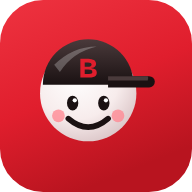
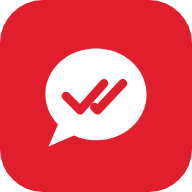
Troca a marca do site e do app para a opção 18 (balão com dois tiques)
Claude-Session: https://claude.ai/code/session_019pqwoSMJ198BP73rKNJgQj

diff --git a/painel.html b/painel.html
@@ -6,7 +6,7 @@
 <meta name="robots" content="noindex, nofollow">
 <title>Painel da loja — BoraLanchar!</title>
 <meta name="theme-color" content="#E01E2D">
-<link rel="icon" href="assets/brand/borinha-icone.svg" type="image/svg+xml">
+<link rel="icon" href="assets/brand/confirmado-icone.svg" type="image/svg+xml">
 <link rel="preconnect" href="https://fonts.googleapis.com">
 <link rel="preconnect" href="https://fonts.gstatic.com" crossorigin>
 <link rel="preload" as="style" href="https://fonts.googleapis.com/css2?family=Bricolage+Grotesque:opsz,wght@12..96,600;12..96,700;12..96,800&family=Figtree:wght@400;500;600;700&display=swap" onload="this.onload=null;this.rel='stylesheet'">
@@ -34,7 +34,7 @@
 <!-- ===== LOGIN ===== -->
 <section id="v-login" class="adm-login" hidden>
   <div class="adm-login-card">
-    <a class="brand" href="painel.html" aria-label="Voltar ao início do painel"><img class="wordmark" src="assets/brand/borinha-logo.svg" width="197" height="40" alt="BoraLanchar!"></a>
+    <a class="brand" href="painel.html" aria-label="Voltar ao início do painel"><img class="wordmark" src="assets/brand/confirmado-logo.svg" width="193" height="34" alt="BoraLanchar!"></a>
     <div><h1>Painel da sua loja</h1><p class="adm-muted">Entre com o e-mail e a senha que você criou no cadastro.</p></div>
     <form class="form" id="login-form" novalidate>
       <div class="field"><label for="l-email">E-mail</label><input id="l-email" type="email" autocomplete="email" required></div>
@@ -49,7 +49,7 @@
 <!-- ===== NOVA SENHA (link do e-mail) ===== -->
 <section id="v-pass" class="adm-login" hidden>
   <div class="adm-login-card">
-    <a class="brand" href="painel.html" aria-label="Voltar ao início do painel"><img class="wordmark" src="assets/brand/borinha-logo.svg" width="197" height="40" alt="BoraLanchar!"></a>
+    <a class="brand" href="painel.html" aria-label="Voltar ao início do painel"><img class="wordmark" src="assets/brand/confirmado-logo.svg" width="193" height="34" alt="BoraLanchar!"></a>
     <div><h1>Crie uma nova senha</h1><p class="adm-muted">Use pelo menos 8 caracteres.</p></div>
     <form class="form" id="pass-form" novalidate>
       <div class="field"><label for="p1">Nova senha</label><input id="p1" type="password" autocomplete="new-password" minlength="8" required></div>
@@ -62,7 +62,7 @@
 <!-- ===== MENSAGEM ===== -->
 <section id="v-msg" class="adm-login" hidden>
   <div class="adm-login-card">
-    <a class="brand" href="painel.html" aria-label="Voltar ao início do painel"><img class="wordmark" src="assets/brand/borinha-logo.svg" width="197" height="40" alt="BoraLanchar!"></a>
+    <a class="brand" href="painel.html" aria-label="Voltar ao início do painel"><img class="wordmark" src="assets/brand/confirmado-logo.svg" width="193" height="34" alt="BoraLanchar!"></a>
     <h1 id="msg-title"></h1>
     <p class="adm-muted" id="msg-text"></p>
     <div id="msg-actions" style="display:flex;flex-direction:column;gap:10px"></div>
@@ -77,7 +77,7 @@
   </div>
   <div class="trial-bar" id="trial-bar" hidden></div>
   <header class="adm-top">
-    <a class="brand" href="painel.html" aria-label="Voltar ao início do painel"><img class="wordmark" src="assets/brand/borinha-logo.svg" width="197" height="40" alt="BoraLanchar!"></a>
+    <a class="brand" href="painel.html" aria-label="Voltar ao início do painel"><img class="wordmark" src="assets/brand/confirmado-logo.svg" width="193" height="34" alt="BoraLanchar!"></a>
     <span class="adm-tag" id="store-name-tag">Minha loja</span>
     <div class="adm-top-right">
       <label class="open-switch" title="Abrir ou fechar a loja para pedidos">

diff --git a/admin.html b/admin.html
@@ -5,7 +5,7 @@
 <meta name="viewport" content="width=device-width, initial-scale=1">
 <meta name="robots" content="noindex, nofollow">
 <title>Painel admin — BoraLanchar!</title>
-<link rel="icon" href="assets/brand/borinha-icone.svg" type="image/svg+xml">
+<link rel="icon" href="assets/brand/confirmado-icone.svg" type="image/svg+xml">
 <link rel="preconnect" href="https://fonts.googleapis.com">
 <link rel="preconnect" href="https://fonts.gstatic.com" crossorigin>
 <link rel="preload" as="style" href="https://fonts.googleapis.com/css2?family=Bricolage+Grotesque:opsz,wght@12..96,600;12..96,700;12..96,800&family=Figtree:wght@400;500;600;700&display=swap" onload="this.onload=null;this.rel='stylesheet'">
@@ -19,7 +19,7 @@
 <!-- ===== LOGIN ===== -->
 <section id="view-login" class="adm-login" hidden>
   <div class="adm-login-card">
-    <a class="brand" href="admin.html" aria-label="Voltar ao início do admin"><img class="wordmark" src="assets/brand/borinha-logo.svg" width="197" height="40" alt="BoraLanchar!"></a>
+    <a class="brand" href="admin.html" aria-label="Voltar ao início do admin"><img class="wordmark" src="assets/brand/confirmado-logo.svg" width="193" height="34" alt="BoraLanchar!"></a>
     <div>
       <h1>Área administrativa</h1>
       <p class="adm-muted">Entre com a conta de administrador.</p>
@@ -38,7 +38,7 @@
 <!-- ===== DEFINIR SENHA (convite / redefinição) ===== -->
 <section id="view-password" class="adm-login" hidden>
   <div class="adm-login-card">
-    <a class="brand" href="admin.html" aria-label="Voltar ao início do admin"><img class="wordmark" src="assets/brand/borinha-logo.svg" width="197" height="40" alt="BoraLanchar!"></a>
+    <a class="brand" href="admin.html" aria-label="Voltar ao início do admin"><img class="wordmark" src="assets/brand/confirmado-logo.svg" width="193" height="34" alt="BoraLanchar!"></a>
     <div>
       <h1>Defina sua senha</h1>
       <p class="adm-muted">Use pelo menos 8 caracteres.</p>
@@ -55,7 +55,7 @@
 <!-- ===== SEM PERMISSÃO / CONFIG ===== -->
 <section id="view-message" class="adm-login" hidden>
   <div class="adm-login-card">
-    <a class="brand" href="admin.html" aria-label="Voltar ao início do admin"><img class="wordmark" src="assets/brand/borinha-logo.svg" width="197" height="40" alt="BoraLanchar!"></a>
+    <a class="brand" href="admin.html" aria-label="Voltar ao início do admin"><img class="wordmark" src="assets/brand/confirmado-logo.svg" width="193" height="34" alt="BoraLanchar!"></a>
     <h1 id="msg-title"></h1>
     <p class="adm-muted" id="msg-text"></p>
     <button class="btn btn-outline btn-block" id="msg-btn" type="button">Sair</button>
@@ -65,7 +65,7 @@
 <!-- ===== PAINEL ===== -->
 <div id="view-app" class="adm-app" hidden>
   <header class="adm-top">
-    <a class="brand" href="admin.html" aria-label="Voltar ao início do admin"><img class="wordmark" src="assets/brand/borinha-logo.svg" width="197" height="40" alt="BoraLanchar!"></a>
+    <a class="brand" href="admin.html" aria-label="Voltar ao início do admin"><img class="wordmark" src="assets/brand/confirmado-logo.svg" width="193" height="34" alt="BoraLanchar!"></a>
     <span class="adm-tag">Admin</span>
     <div class="adm-top-right">
       <span class="adm-user" id="who"></span>

diff --git a/index.html b/index.html
@@ -9,7 +9,7 @@
 <meta property="og:title" content="BoraLanchar! — Seu cardápio vende. E você cozinha!">
 <meta property="og:description" content="Pedidos, cardápio digital e gestão para restaurantes e delivery.">
 <meta property="og:type" content="website">
-<link rel="icon" href="assets/brand/borinha-icone.svg" type="image/svg+xml">
+<link rel="icon" href="assets/brand/confirmado-icone.svg" type="image/svg+xml">
 <link rel="apple-touch-icon" href="assets/app/apple-touch-icon.png">
 <link rel="preconnect" href="https://fonts.googleapis.com">
 <link rel="preconnect" href="https://fonts.gstatic.com" crossorigin>
@@ -55,7 +55,7 @@
 <header class="header">
   <div class="container nav">
     <a class="brand" href="#topo" aria-label="BoraLanchar! — início">
-      <img class="wordmark" src="assets/brand/borinha-logo.svg" width="197" height="40" alt="BoraLanchar!">
+      <img class="wordmark" src="assets/brand/confirmado-logo.svg" width="193" height="34" alt="BoraLanchar!">
     </a>
     <nav class="nav-links" aria-label="Principal">
       <a href="#produto">Produto</a>
@@ -125,7 +125,7 @@
         <p>2× Bacon Brasa · 1× Batata frita</p>
         <div class="acts"><span>Aceitar</span><span>Detalhes</span></div>
       </div>
-      <img class="hero-sticker" src="assets/brand/borinha-mascote-contorno.svg" alt="" aria-hidden="true" width="190" height="190">
+      <img class="hero-sticker" src="assets/brand/confirmado-simbolo.svg" alt="" aria-hidden="true" width="156" height="152">
       <div class="float float-pay" aria-hidden="true">
         <i><svg width="18" height="18" style="color:#fff"><use href="#i-check"/></svg></i>
         <span><small>Pagamento aprovado</small><b>Pix confirmado</b></span>
@@ -382,7 +382,7 @@
 <section class="section" style="padding:96px 0">
   <div class="container">
     <div class="cta-box reveal">
-      <img class="cta-seal" loading="lazy" decoding="async" src="assets/brand/borinha-mascote.svg" alt="" aria-hidden="true" width="190" height="190">
+      <img class="cta-seal" loading="lazy" decoding="async" src="assets/brand/confirmado-simbolo-branco.svg" alt="" aria-hidden="true" width="156" height="152">
       <div style="flex:1 1 480px;min-width:0">
         <span class="cta-kicker">Bateu a fome? Bora lanchar!</span>
         <h2>Seu próximo pedido pode chegar ainda hoje.</h2>
@@ -401,7 +401,7 @@
   <div class="container">
     <div class="footer-top">
       <div class="footer-brand">
-        <a class="brand" href="#topo"><img class="wordmark" loading="lazy" decoding="async" src="assets/brand/borinha-logo-branco.svg" width="217" height="44" alt="BoraLanchar!"></a>
+        <a class="brand" href="#topo"><img class="wordmark" loading="lazy" decoding="async" src="assets/brand/confirmado-logo-branco.svg" width="216" height="38" alt="BoraLanchar!"></a>
         <p style="font-size:15px">Pedidos, cardápio digital e gestão para restaurantes que querem crescer sem perder o controle.</p>
         <div class="socials">
           <a href="#" aria-label="Instagram"><svg width="20" height="20"><use href="#i-ig"/></svg></a>

diff --git a/assets/styles.css b/assets/styles.css
@@ -326,8 +326,8 @@ dialog.wide{width:min(960px,calc(100% - 32px))}
 }
 
 /* logotipo e foco em fundos escuros */
-.brand .wordmark{display:block;height:40px;width:auto}
-.footer .brand .wordmark{height:44px}
+.brand .wordmark{display:block;height:34px;width:auto}
+.footer .brand .wordmark{height:38px}
 .footer,.section-dark,.plan.featured,.band-red,.cta-box,.marquee{--focus:#FFFFFF}
 
 /* Planos reativos: o cartão ativo assume a cor do seu plano.
@@ -389,7 +389,7 @@ dialog.wide{width:min(960px,calc(100% - 32px))}
 .hero::before{right:-260px;top:-240px;width:900px;height:900px;background:repeating-conic-gradient(var(--red-soft) 0 7.5deg,#fff 7.5deg 15deg);-webkit-mask-image:radial-gradient(closest-side,#000 55%,transparent);mask-image:radial-gradient(closest-side,#000 55%,transparent)}
 .pill{border:2px solid var(--ink);color:var(--ink);font-weight:700;box-shadow:3px 3px 0 var(--ink)}
 .hero h1 em{color:var(--red)}
-.hero-sticker{position:absolute;left:4px;bottom:10px;width:170px;height:auto;z-index:3;transform:rotate(-8deg);filter:drop-shadow(0 6px 10px rgba(26,17,18,.35))}
+.hero-sticker{position:absolute;left:8px;bottom:18px;width:150px;height:auto;z-index:3;transform:rotate(-8deg);filter:drop-shadow(0 8px 14px rgba(160,16,27,.35))}
 @media (max-width:640px){.hero-sticker{width:128px;left:-4px;bottom:4px}}
 
 /* botões com sombra de adesivo */
@@ -422,7 +422,7 @@ dialog.wide{width:min(960px,calc(100% - 32px))}
 /* chamada final */
 .cta-box::before{content:"";position:absolute;inset:-60%;background:repeating-conic-gradient(rgba(255,255,255,.06) 0 8deg,transparent 8deg 16deg)}
 .cta-box::after{display:none}
-.cta-seal{flex:0 0 auto;width:170px;height:auto;transform:rotate(-7deg)}
+.cta-seal{flex:0 0 auto;width:150px;height:auto;transform:rotate(-7deg)}
 .cta-kicker{display:block;font-family:var(--display);font-weight:800;font-size:22px;letter-spacing:-.01em;margin-bottom:8px;color:#fff}
 .cta-box p{color:#fff}
 @media (max-width:640px){.cta-seal{width:120px}}

diff --git a/privacidade.html b/privacidade.html
@@ -4,7 +4,7 @@
 <meta charset="utf-8">
 <meta name="viewport" content="width=device-width, initial-scale=1">
 <title>Política de privacidade — BoraLanchar!</title>
-<link rel="icon" href="assets/brand/borinha-icone.svg" type="image/svg+xml">
+<link rel="icon" href="assets/brand/confirmado-icone.svg" type="image/svg+xml">
 <link rel="preconnect" href="https://fonts.googleapis.com">
 <link rel="preconnect" href="https://fonts.gstatic.com" crossorigin>
 <link rel="preload" as="style" href="https://fonts.googleapis.com/css2?family=Bricolage+Grotesque:opsz,wght@12..96,600;12..96,700;12..96,800&family=Figtree:wght@400;500;600;700&display=swap" onload="this.onload=null;this.rel='stylesheet'">
@@ -12,7 +12,7 @@
 <link rel="stylesheet" href="assets/styles.css">
 </head>
 <body>
-<header class="header"><div class="container nav"><a class="brand" href="index.html"><img class="wordmark" src="assets/brand/borinha-logo.svg" width="197" height="40" alt="BoraLanchar!"></a><a class="btn btn-outline" href="index.html">Voltar ao site</a></div></header>
+<header class="header"><div class="container nav"><a class="brand" href="index.html"><img class="wordmark" src="assets/brand/confirmado-logo.svg" width="193" height="34" alt="BoraLanchar!"></a><a class="btn btn-outline" href="index.html">Voltar ao site</a></div></header>
 <main class="section"><article class="container" style="max-width:760px;display:flex;flex-direction:column;gap:20px">
 <span class="eyebrow">Documento modelo</span>
 <h1 class="h2">Política de privacidade</h1>

diff --git a/termos.html b/termos.html
@@ -4,7 +4,7 @@
 <meta charset="utf-8">
 <meta name="viewport" content="width=device-width, initial-scale=1">
 <title>Termos de uso — BoraLanchar!</title>
-<link rel="icon" href="assets/brand/borinha-icone.svg" type="image/svg+xml">
+<link rel="icon" href="assets/brand/confirmado-icone.svg" type="image/svg+xml">
 <link rel="preconnect" href="https://fonts.googleapis.com">
 <link rel="preconnect" href="https://fonts.gstatic.com" crossorigin>
 <link rel="preload" as="style" href="https://fonts.googleapis.com/css2?family=Bricolage+Grotesque:opsz,wght@12..96,600;12..96,700;12..96,800&family=Figtree:wght@400;500;600;700&display=swap" onload="this.onload=null;this.rel='stylesheet'">
@@ -12,7 +12,7 @@
 <link rel="stylesheet" href="assets/styles.css">
 </head>
 <body>
-<header class="header"><div class="container nav"><a class="brand" href="index.html"><img class="wordmark" src="assets/brand/borinha-logo.svg" width="197" height="40" alt="BoraLanchar!"></a><a class="btn btn-outline" href="index.html">Voltar ao site</a></div></header>
+<header class="header"><div class="container nav"><a class="brand" href="index.html"><img class="wordmark" src="assets/brand/confirmado-logo.svg" width="193" height="34" alt="BoraLanchar!"></a><a class="btn btn-outline" href="index.html">Voltar ao site</a></div></header>
 <main class="section"><article class="container" style="max-width:760px;display:flex;flex-direction:column;gap:20px">
 <span class="eyebrow">Documento modelo</span>
 <h1 class="h2">Termos de uso</h1>

diff --git a/assinar.html b/assinar.html
@@ -6,7 +6,7 @@
 <title>Assinar plano — BoraLanchar!</title>
 <meta name="description" content="Escolha seu plano do BoraLanchar! e pague com Pix, cartão ou boleto.">
 <meta name="theme-color" content="#E01E2D">
-<link rel="icon" href="assets/brand/borinha-icone.svg" type="image/svg+xml">
+<link rel="icon" href="assets/brand/confirmado-icone.svg" type="image/svg+xml">
 <link rel="preconnect" href="https://fonts.googleapis.com">
 <link rel="preconnect" href="https://fonts.gstatic.com" crossorigin>
 <link rel="preload" as="style" href="https://fonts.googleapis.com/css2?family=Bricolage+Grotesque:opsz,wght@12..96,600;12..96,700;12..96,800&family=Figtree:wght@400;500;600;700&display=swap" onload="this.onload=null;this.rel='stylesheet'">
@@ -26,7 +26,7 @@
 </svg>
 
 <header class="as-top">
-  <a class="brand" href="index.html"><img class="wordmark" src="assets/brand/borinha-logo.svg" width="197" height="40" alt="BoraLanchar!"></a>
+  <a class="brand" href="index.html"><img class="wordmark" src="assets/brand/confirmado-logo.svg" width="193" height="34" alt="BoraLanchar!"></a>
   <a class="as-back" href="index.html#planos"><svg width="18" height="18"><use href="#i-left"/></svg><span class="lg">Ver todos os </span>planos</a>
 </header>
 

diff --git a/supabase/emails/confirmacao.html b/supabase/emails/confirmacao.html
@@ -5,7 +5,7 @@
 <table role="presentation" width="100%" cellpadding="0" cellspacing="0" border="0" style="background:#FBF7F6"><tr><td align="center" style="padding:24px 12px">
 <table role="presentation" width="100%" cellpadding="0" cellspacing="0" border="0" style="max-width:560px;table-layout:fixed;background:#FFFFFF;border-radius:24px;overflow:hidden;border:1px solid #EFE3E3">
 <tr><td align="center" style="background:#E01E2D;padding:30px 24px 26px">
-<a href="https://boralanchar.com.br" style="text-decoration:none"><img src="https://boralanchar.com.br/assets/app/email-logo.png" width="260" height="62" alt="BoraLanchar!" style="display:block;border:0;width:260px;height:auto;color:#FFFFFF;font-size:28px;font-weight:800"></a>
+<a href="https://boralanchar.com.br" style="text-decoration:none"><img src="https://boralanchar.com.br/assets/app/email-logo.png" width="260" height="46" alt="BoraLanchar!" style="display:block;border:0;width:260px;height:auto;color:#FFFFFF;font-size:28px;font-weight:800"></a>
 <p style="margin:12px 0 0;color:#FFE8E9;font-size:14px;font-weight:600">Seu cardápio vende. E você cozinha!</p>
 </td></tr>
 <tr><td style="padding:36px 32px 8px">

diff --git a/supabase/emails/recuperar-senha.html b/supabase/emails/recuperar-senha.html
@@ -5,7 +5,7 @@
 <table role="presentation" width="100%" cellpadding="0" cellspacing="0" border="0" style="background:#FBF7F6"><tr><td align="center" style="padding:24px 12px">
 <table role="presentation" width="100%" cellpadding="0" cellspacing="0" border="0" style="max-width:560px;table-layout:fixed;background:#FFFFFF;border-radius:24px;overflow:hidden;border:1px solid #EFE3E3">
 <tr><td align="center" style="background:#E01E2D;padding:30px 24px 26px">
-<a href="https://boralanchar.com.br" style="text-decoration:none"><img src="https://boralanchar.com.br/assets/app/email-logo.png" width="260" height="62" alt="BoraLanchar!" style="display:block;border:0;width:260px;height:auto;color:#FFFFFF;font-size:28px;font-weight:800"></a>
+<a href="https://boralanchar.com.br" style="text-decoration:none"><img src="https://boralanchar.com.br/assets/app/email-logo.png" width="260" height="46" alt="BoraLanchar!" style="display:block;border:0;width:260px;height:auto;color:#FFFFFF;font-size:28px;font-weight:800"></a>
 <p style="margin:12px 0 0;color:#FFE8E9;font-size:14px;font-weight:600">Seu cardápio vende. E você cozinha!</p>
 </td></tr>
 <tr><td style="padding:36px 32px 8px">

diff --git a/baixar.html b/baixar.html
@@ -7,7 +7,7 @@
 <meta name="description" content="Baixe o app BoraLanchar! no Android, iPhone, Windows ou Mac e receba os pedidos do seu restaurante com aviso sonoro.">
 <meta name="theme-color" content="#E01E2D">
 <link rel="manifest" href="/manifest.webmanifest">
-<link rel="icon" href="/assets/brand/borinha-icone.svg" type="image/svg+xml">
+<link rel="icon" href="/assets/brand/confirmado-icone.svg" type="image/svg+xml">
 <link rel="apple-touch-icon" href="/assets/app/apple-touch-icon.png">
 <meta name="apple-mobile-web-app-capable" content="yes">
 <meta name="mobile-web-app-capable" content="yes">
@@ -34,7 +34,7 @@
 
 <header class="dl-top">
   <div class="container dl-nav">
-    <a class="brand" href="/" aria-label="BoraLanchar! — início"><img class="wordmark" src="/assets/brand/borinha-logo.svg" width="167" height="34" alt="BoraLanchar!"></a>
+    <a class="brand" href="/" aria-label="BoraLanchar! — início"><img class="wordmark" src="/assets/brand/confirmado-logo.svg" width="165" height="29" alt="BoraLanchar!"></a>
     <a class="dl-web" href="/painel.html">Entrar pelo navegador</a>
   </div>
 </header>

diff --git a/assets/baixar.css b/assets/baixar.css
@@ -2,7 +2,7 @@
 .dl{background:var(--paper)}
 .dl-top{position:sticky;top:0;z-index:10;background:rgba(251,247,246,.92);backdrop-filter:blur(10px);border-bottom:1px solid var(--line)}
 .dl-nav{display:flex;align-items:center;justify-content:space-between;gap:16px;min-height:68px}
-.dl-nav .wordmark{height:34px;width:auto;display:block}
+.dl-nav .wordmark{height:29px;width:auto;display:block}
 .dl-web{font-weight:700;color:var(--ink);font-size:15px;padding:10px 4px}
 .dl-hero{padding:56px 0 40px;background:radial-gradient(900px 420px at 85% 20%,var(--red-soft),transparent 70%)}
 .dl-grid{display:grid;grid-template-columns:1.1fr .9fr;gap:48px;align-items:center}
@@ -62,5 +62,5 @@
   .container{padding:0 16px}
   .dl-main{width:100%}
   .dl-web{font-size:14px}
-  .dl-nav .wordmark{height:30px}
+  .dl-nav .wordmark{height:26px}
 }

diff --git a/assets/painel.css b/assets/painel.css
@@ -285,7 +285,7 @@
 .robo-reply textarea{flex:1;font:inherit;font-size:15px;padding:10px 12px;border-radius:12px;border:1.5px solid #E2D3D4;resize:vertical;min-height:48px}
 @media (max-width:900px){.robo-grid{grid-template-columns:1fr}}
 @media (max-width:640px){.faq-row{grid-template-columns:minmax(0,1fr) 36px}.faq-row textarea{grid-column:1}.faq-row .opt-x{grid-row:1;grid-column:2}}
-@media (max-width:640px){.adm-top{gap:8px}.adm-top .brand .wordmark{height:30px}.adm-top-right .btn{padding:8px 10px}.adm-top .adm-tag{max-width:26vw}}
+@media (max-width:640px){.adm-top{gap:8px}.adm-top .brand .wordmark{height:26px}.adm-top-right .btn{padding:8px 10px}.adm-top .adm-tag{max-width:26vw}}
 
 /* ============ recursos por plano ============ */
 .p-tabs button.locked{color:#A99596}
